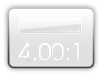
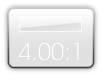
Add aspect ratios 1.81 & 4:1

diff --git a/DiamondTheme/Resources.Designer.cs b/DiamondTheme/Resources.Designer.cs
@@ -1803,6 +1803,20 @@ namespace Diamond {
             }
         }
         
+        internal static System.Drawing.Bitmap ratio_181 {
+            get {
+                object obj = ResourceManager.GetObject("ratio_181", resourceCulture);
+                return ((System.Drawing.Bitmap)(obj));
+            }
+        }
+        
+        internal static System.Drawing.Bitmap ratio_181_clr {
+            get {
+                object obj = ResourceManager.GetObject("ratio_181_clr", resourceCulture);
+                return ((System.Drawing.Bitmap)(obj));
+            }
+        }
+        
         internal static System.Drawing.Bitmap ratio_185 {
             get {
                 object obj = ResourceManager.GetObject("ratio_185", resourceCulture);
